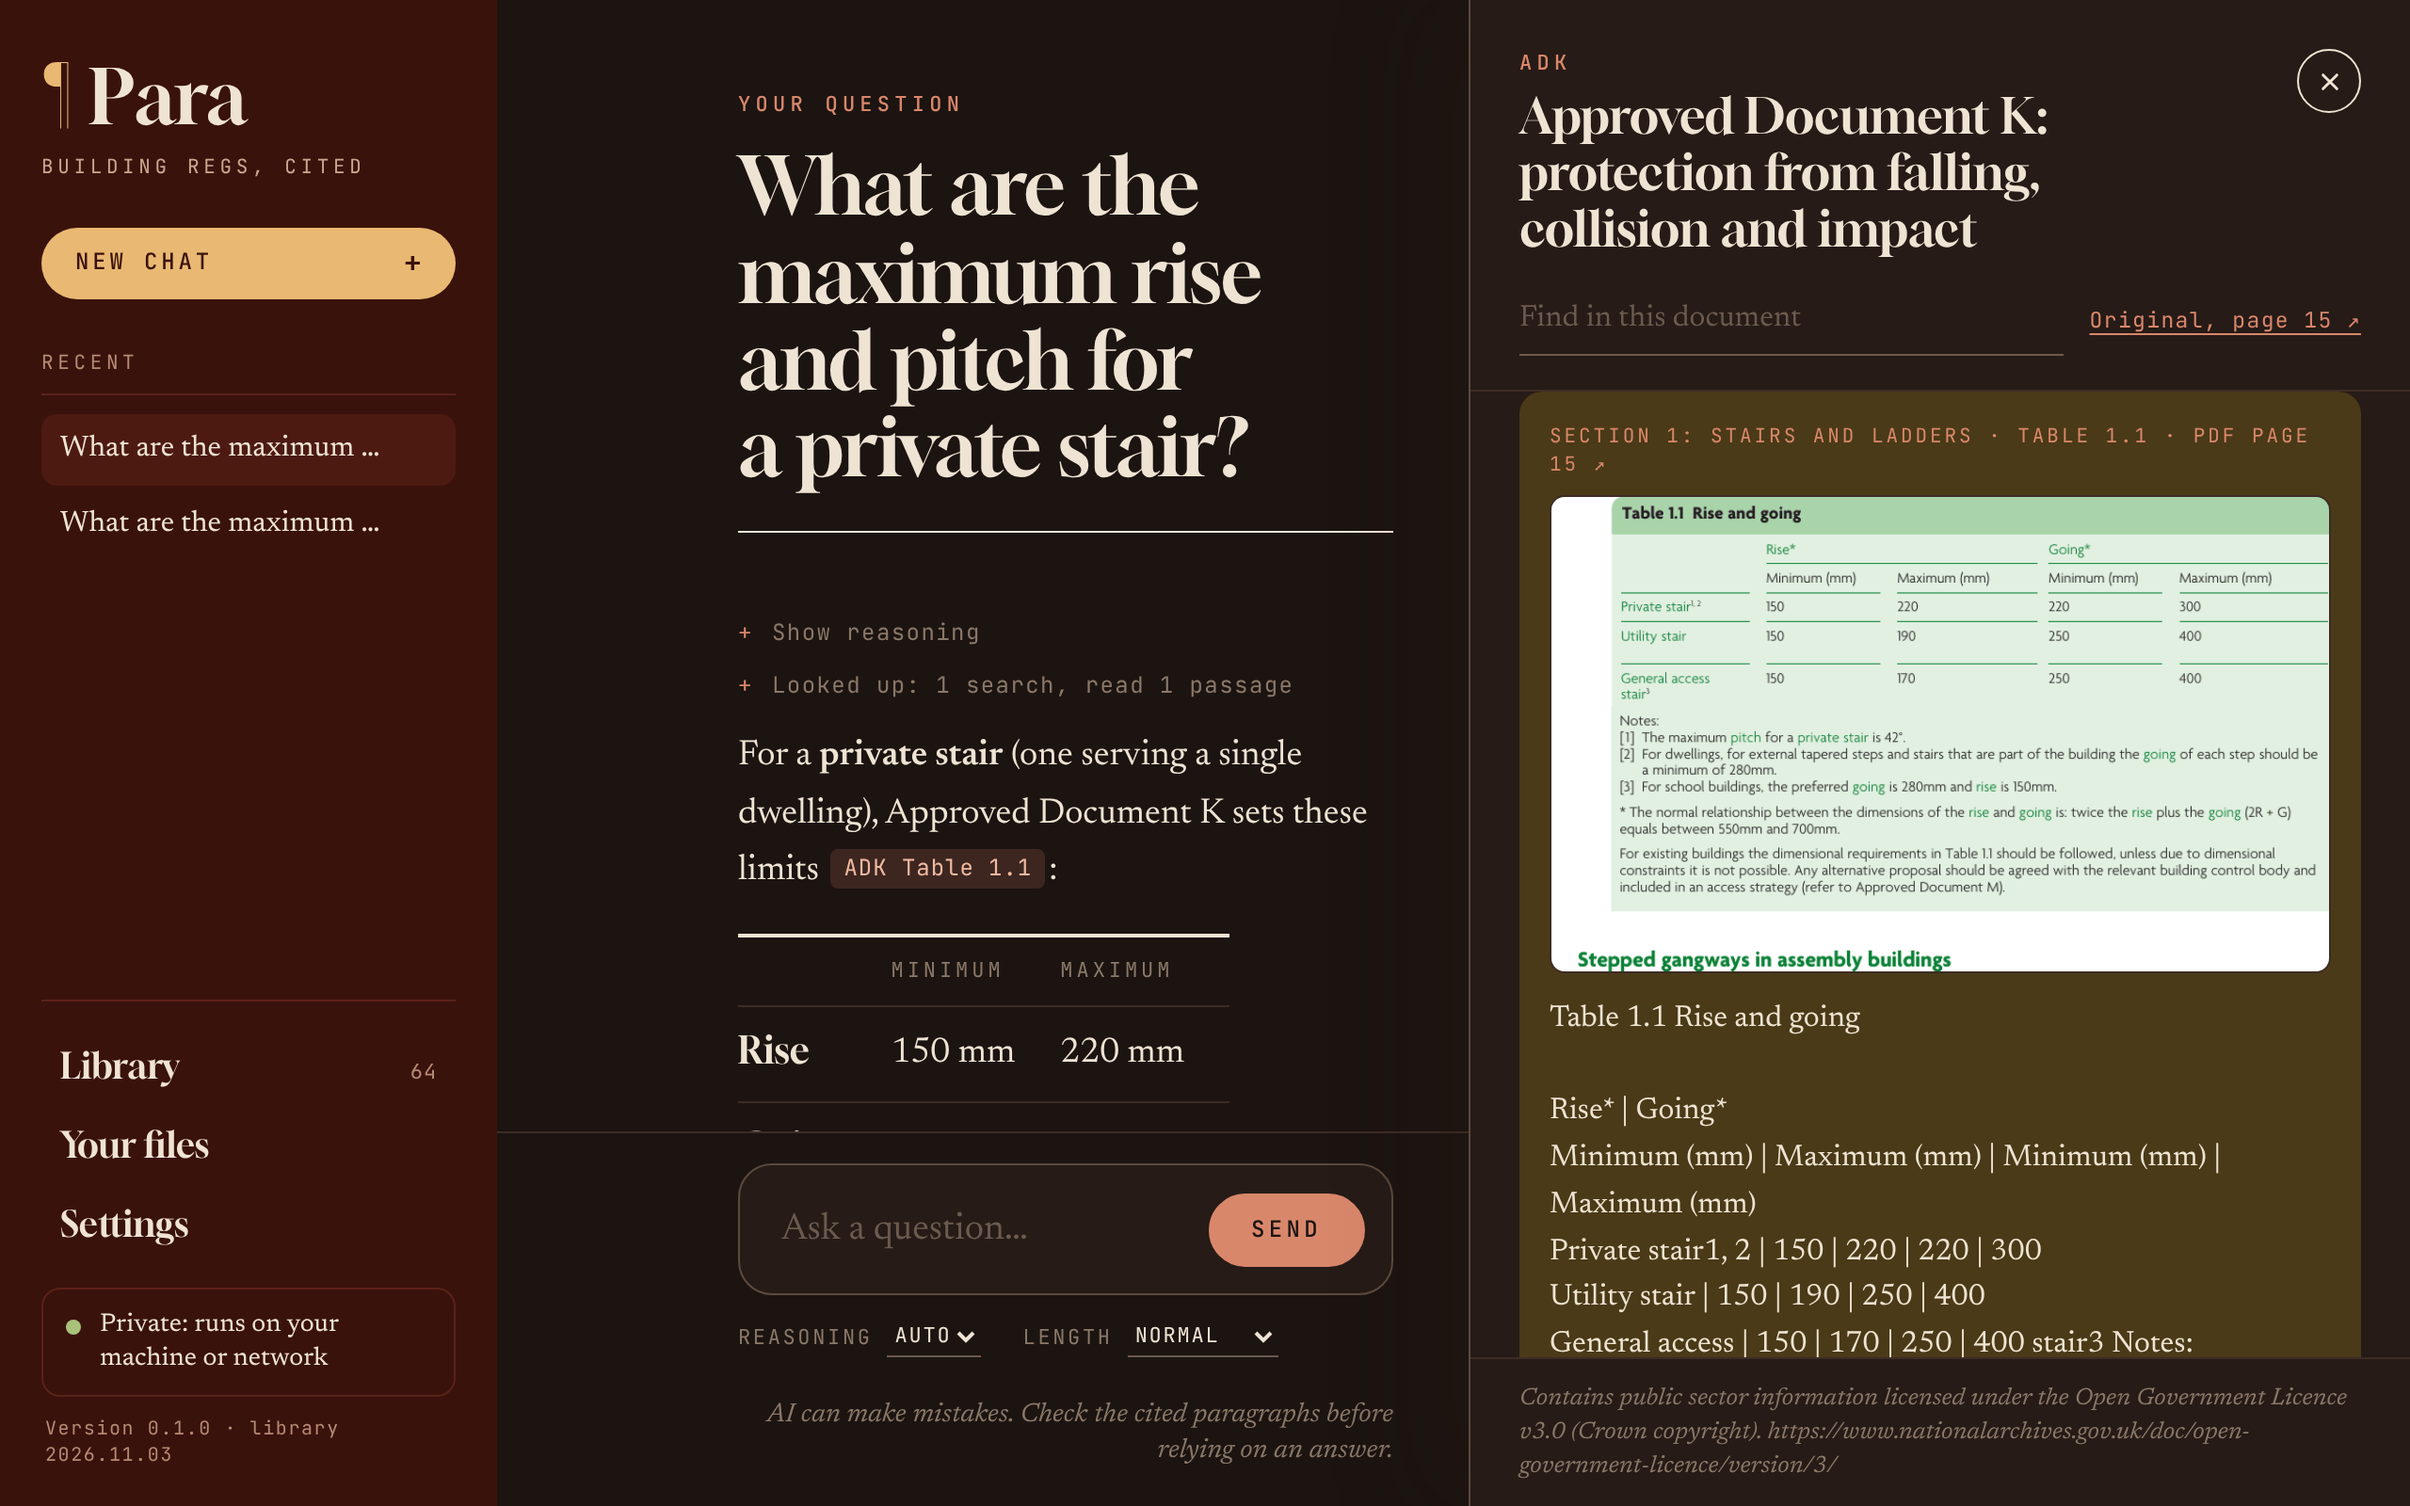
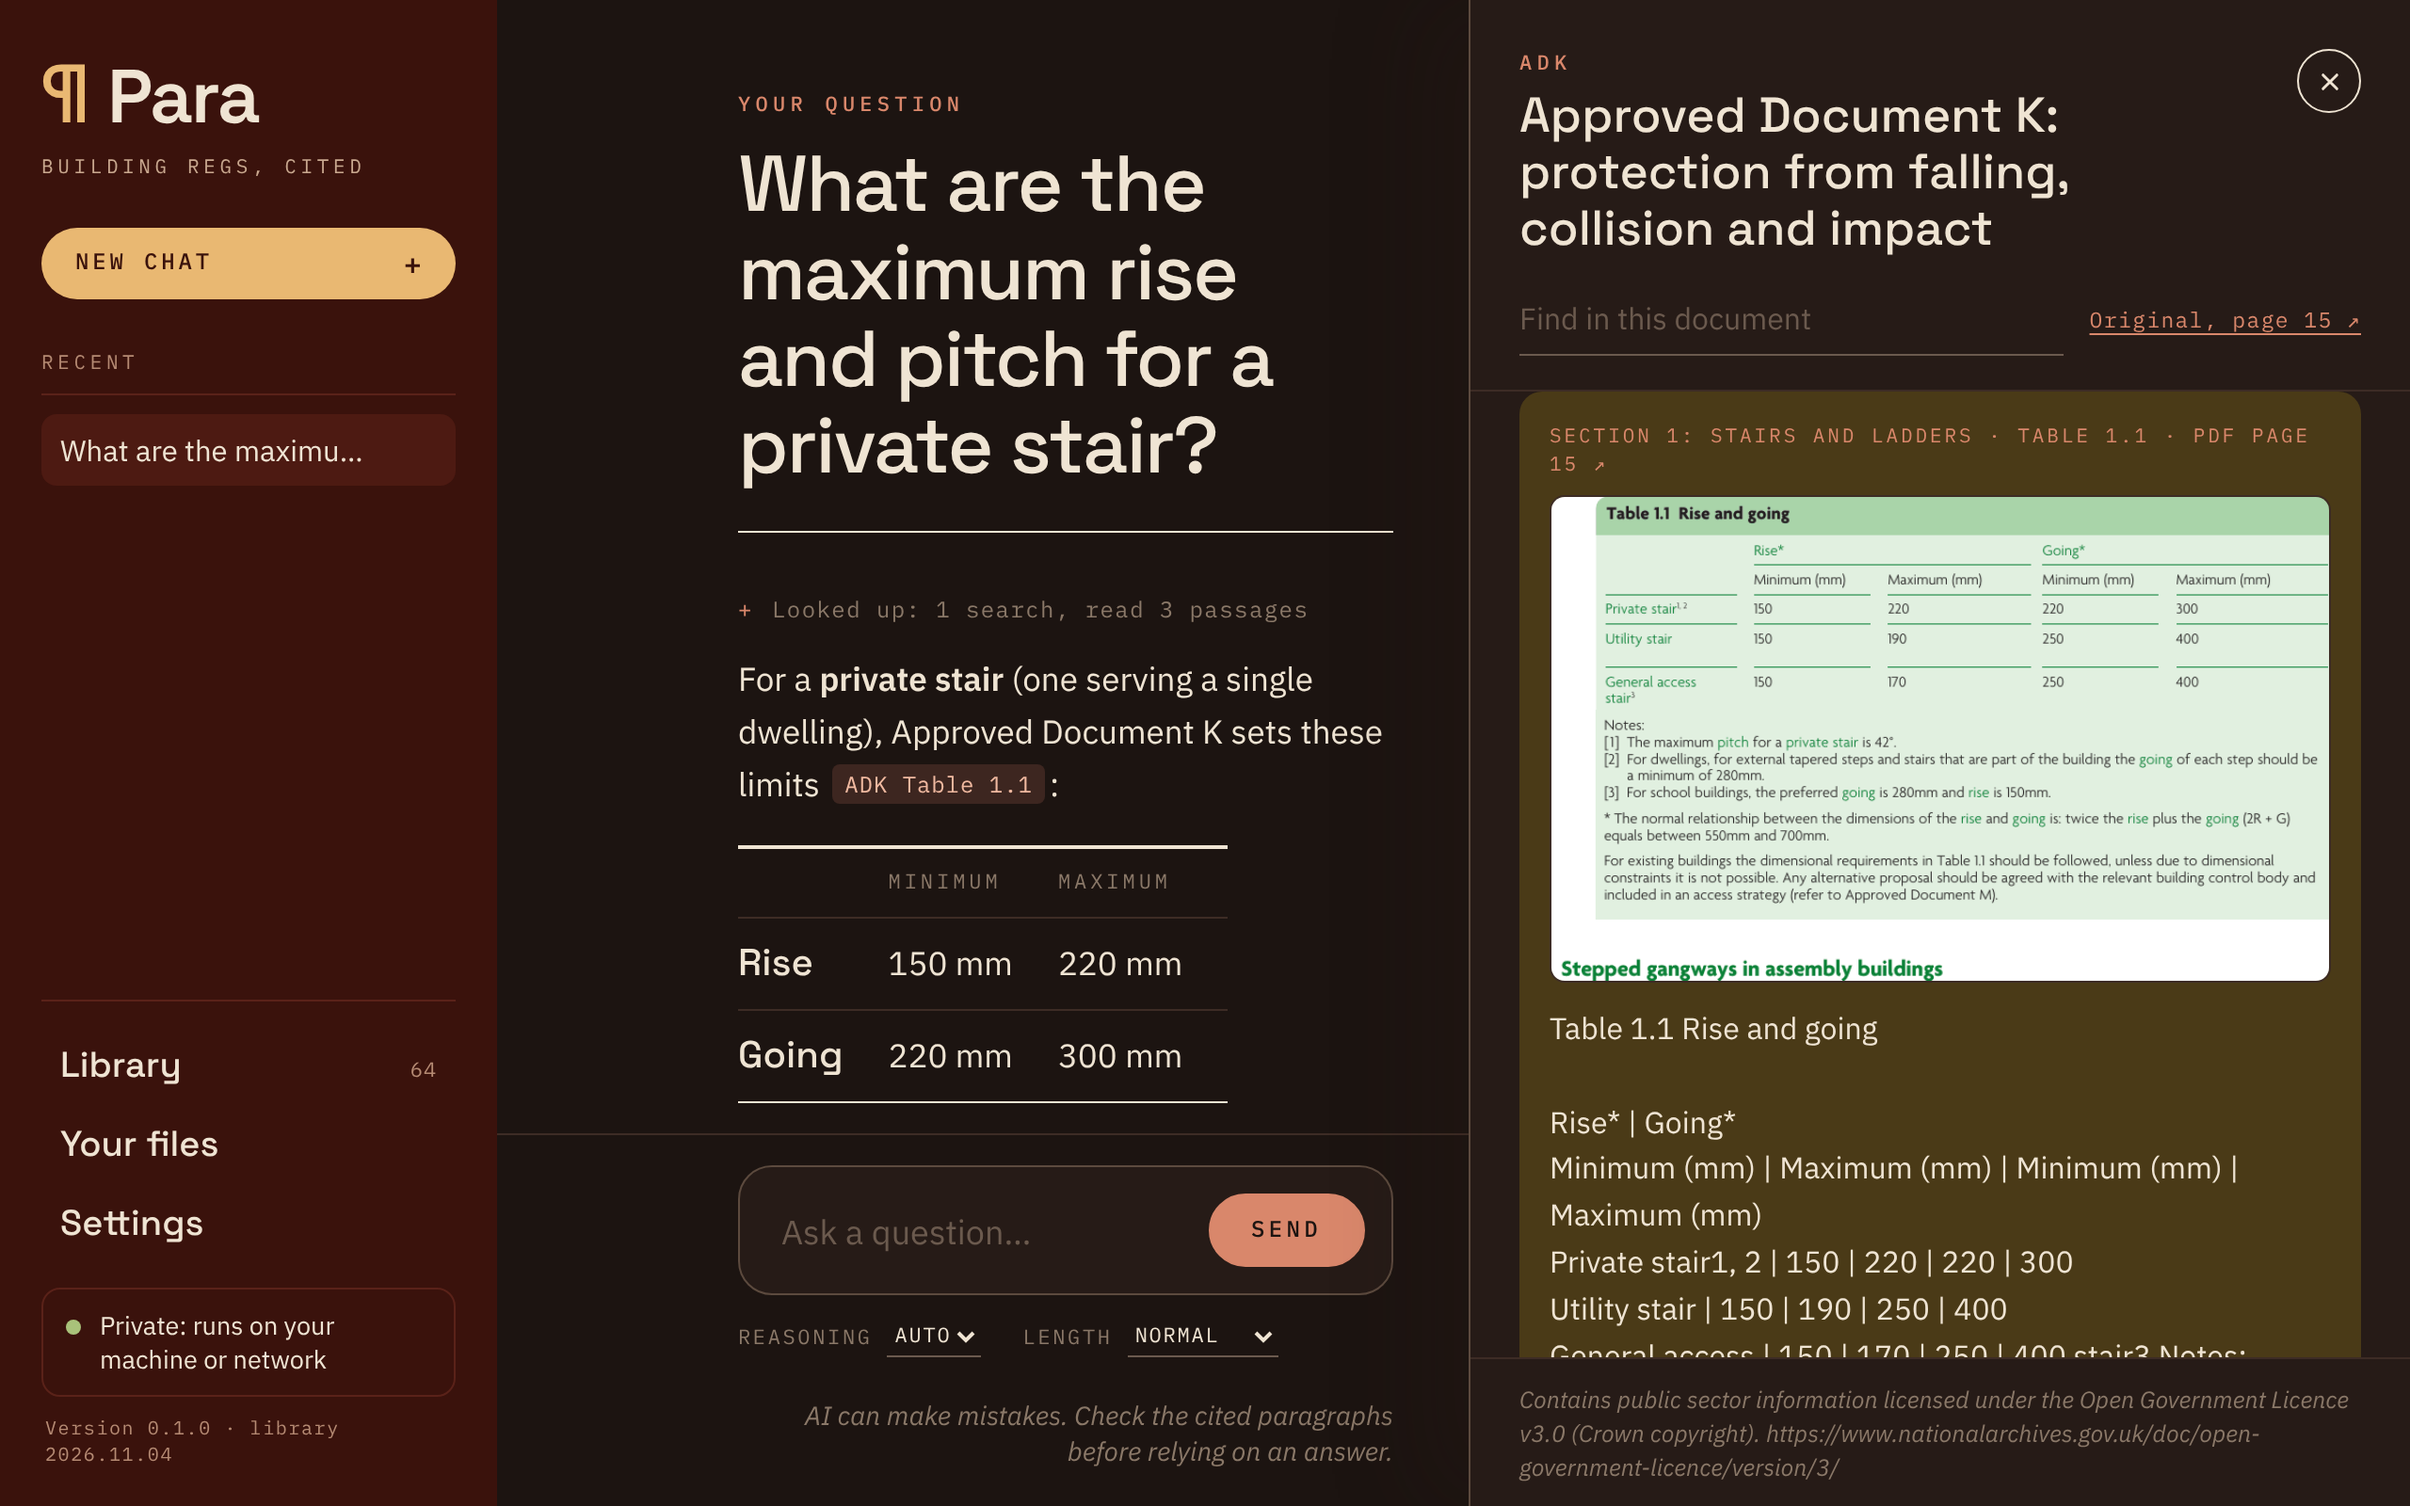
Screenshots in the new type
The interface moved to Space Grotesk, IBM Plex Sans and IBM Plex Mono, so the screenshots in
docs/screenshots (used by the README, DESIGN.md and the website) still showed the old serif look.
All fourteen are retaken at the same sizes from the current interface with the published library.
DESIGN.md no longer says the app reads in a serif.

Claude-Session: https://claude.ai/code/session_01RnhYdqgg7puVagg1UycUbK

diff --git a/DESIGN.md b/DESIGN.md
@@ -13,8 +13,8 @@ when the interface changes).
 3. **Honest states.** Say plainly when an answer doesn't come from the library, when a citation was removed, when
    the engine isn't private, and when the answer was cut short. Never hide these to look cleaner.
 4. **Calm and professional.** It's a reference tool used at work, styled like a well-set printed reference:
-   parchment pages, an oxblood sidebar, one clay accent, a serif for reading and a monospace for labels. No animation
-   beyond the typing cursor, no illustrations, no emoji.
+   parchment pages, an oxblood sidebar, one clay accent, a plain sans-serif for reading and a monospace for labels.
+   No animation beyond the typing cursor, no illustrations, no emoji.
 5. **Works without explanation.** Someone who has never used an AI tool should get from install to a cited answer
    without reading anything.
 
